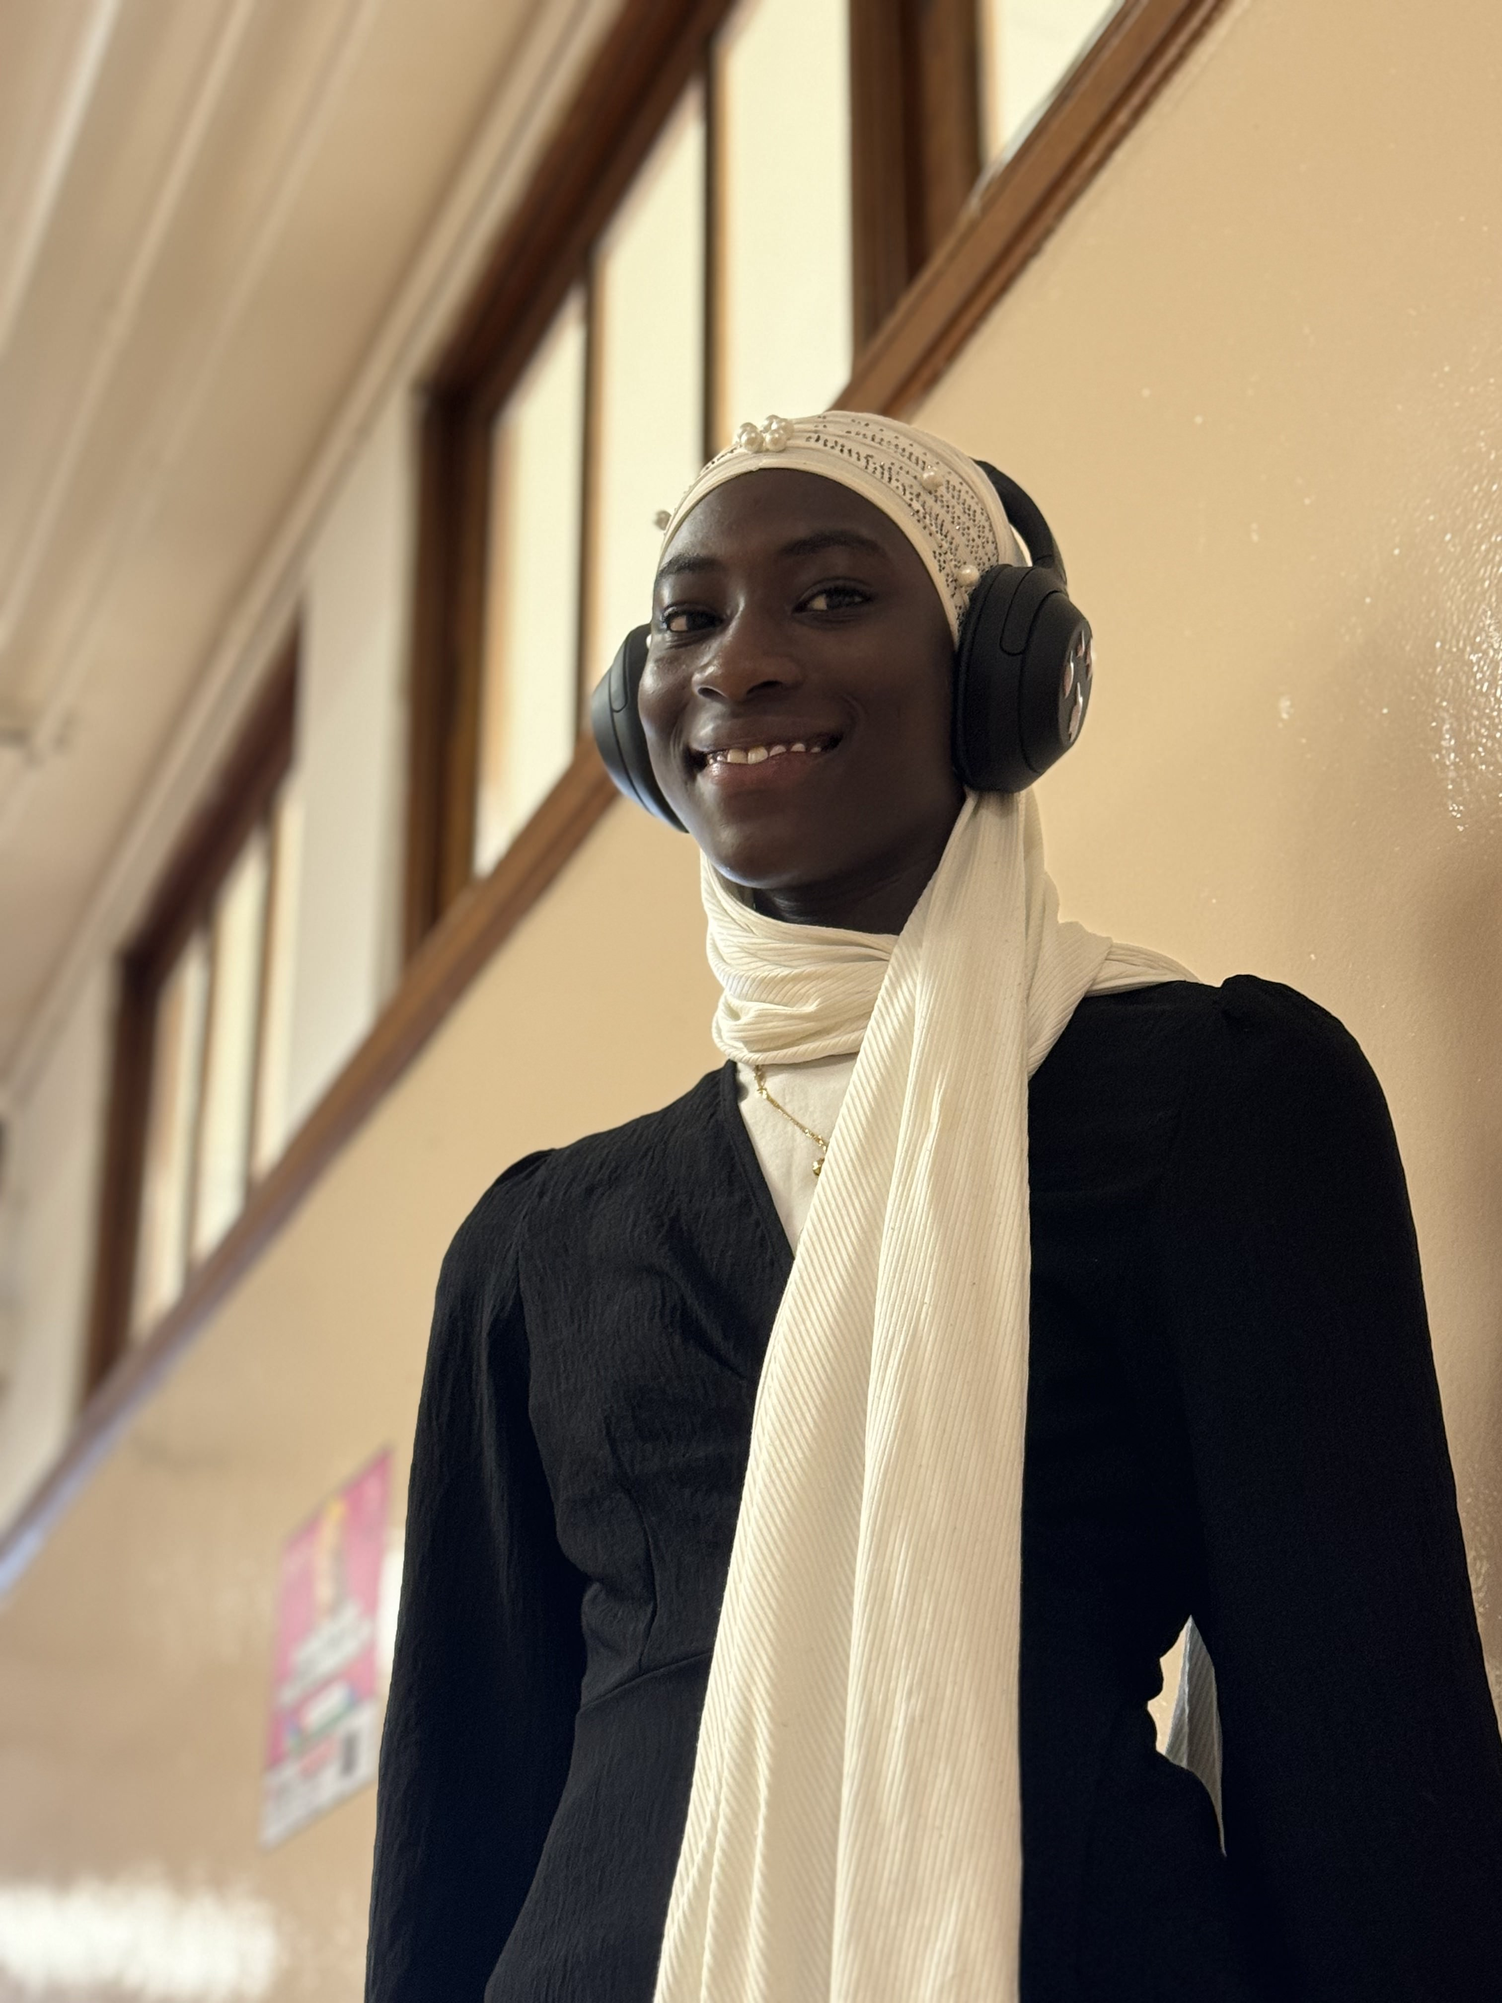
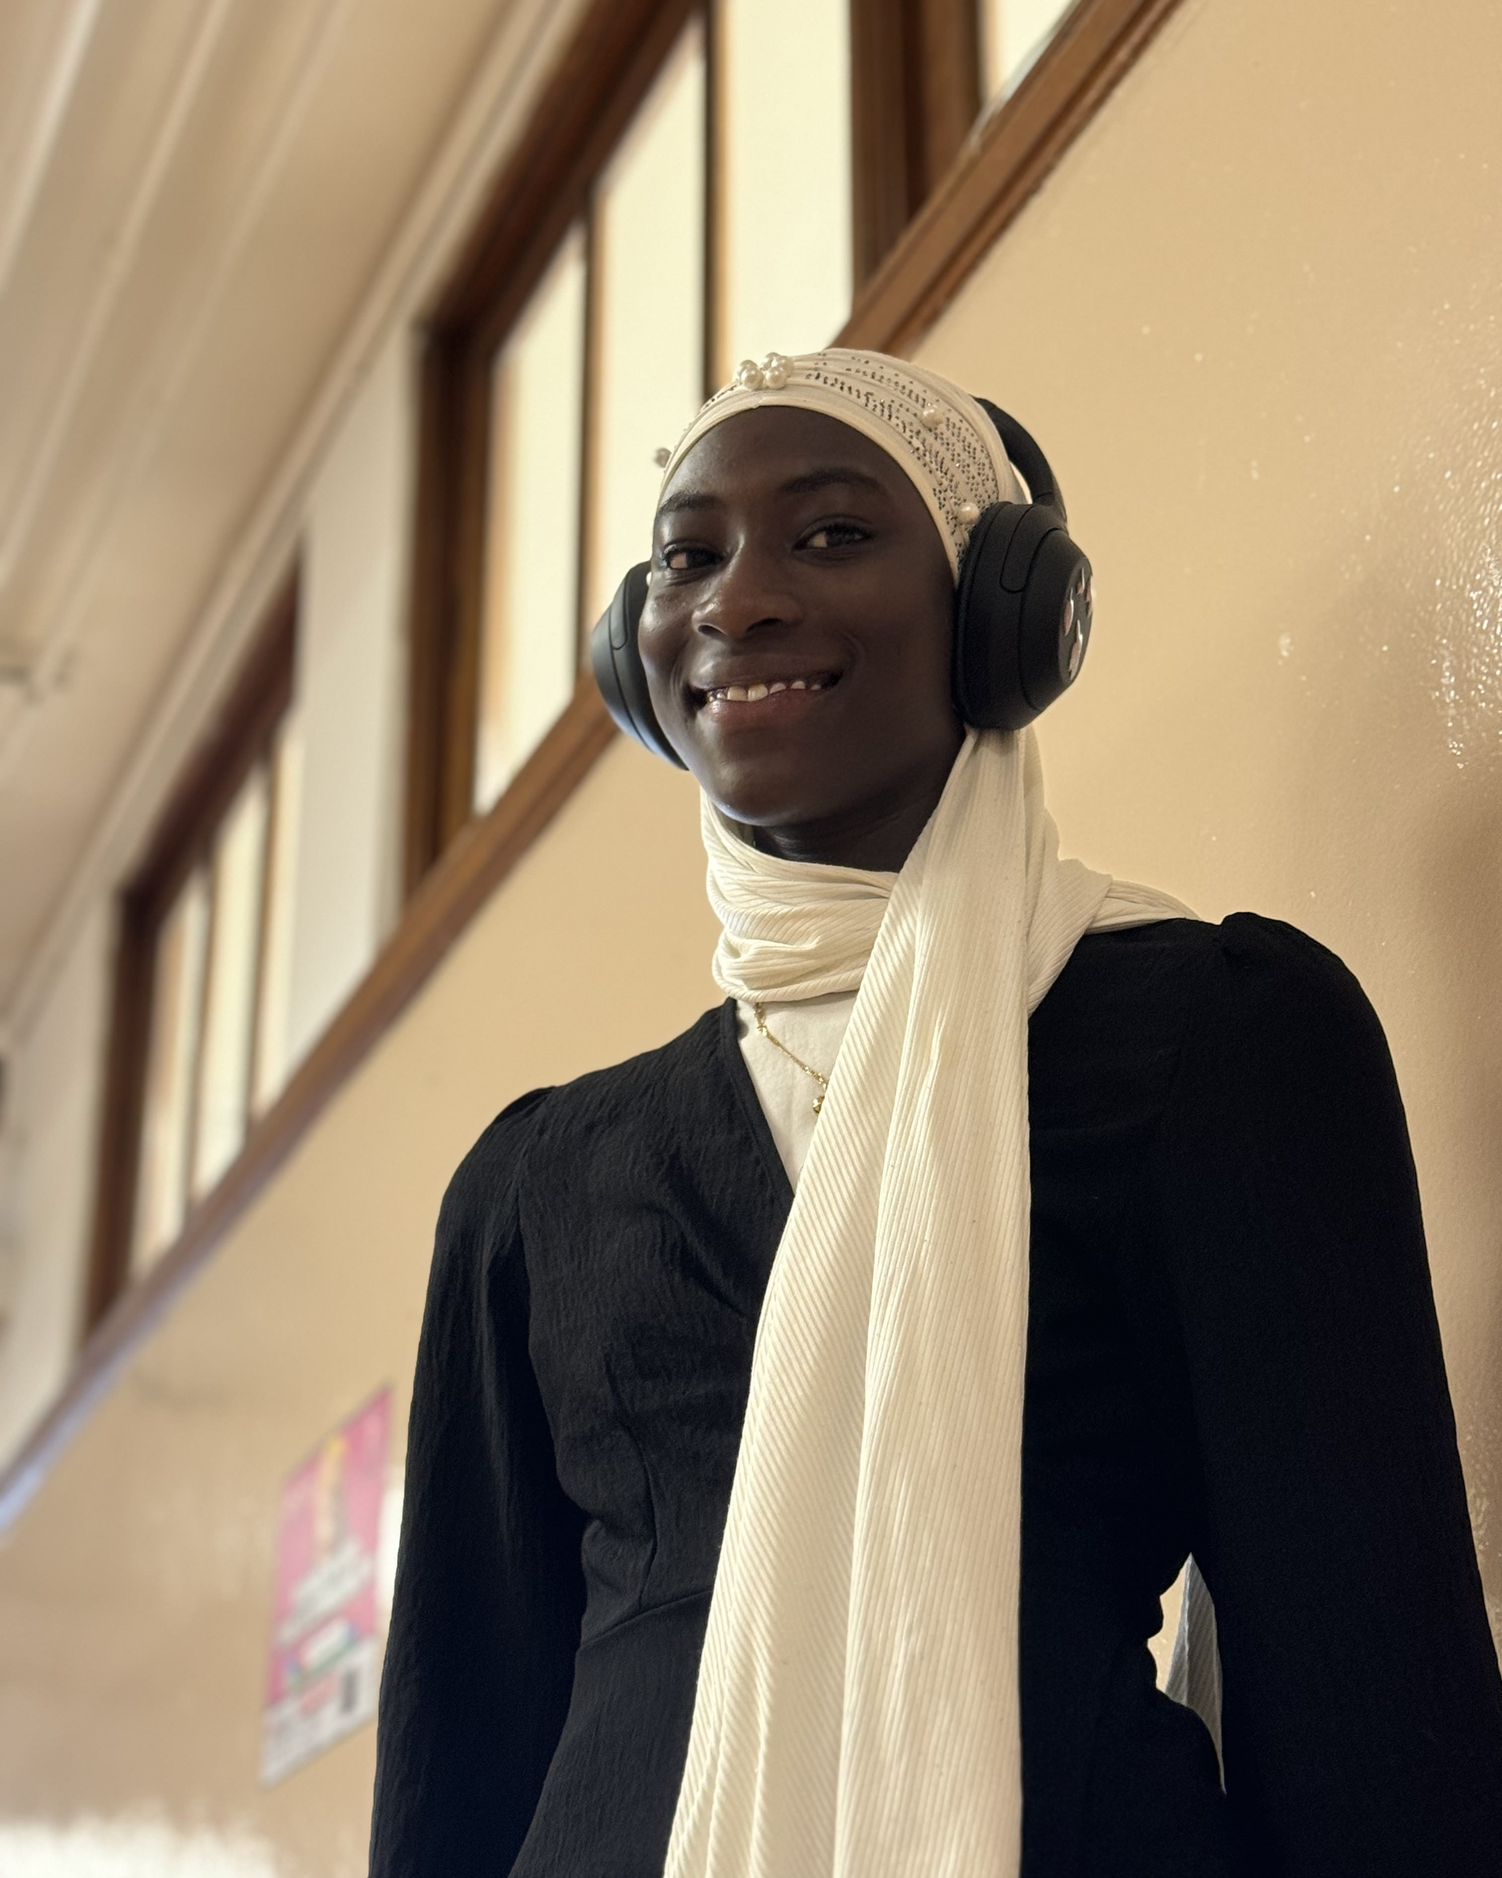
tiff

diff --git a/student3.html b/student3.html
@@ -1,0 +1,147 @@
+      <!DOCTYPE html>
+      <html>
+
+      <head>
+        <meta charset="utf-8">
+        <meta name="viewport" content="width=device-width">
+        <title>Highlights - Tiffany O'Reilly </title>
+        <link rel="preconnect" href="https://fonts.googleapis.com">
+        <link rel="preconnect" href="https://fonts.gstatic.com" crossorigin>
+        <link href="https://fonts.googleapis.com/css2?family=Bebas+Neue&family=Oswald:wght@200..700&display=swap" rel="stylesheet">
+        <link href="student1.css" rel="stylesheet" type="text/css"/>
+        <!-- ICON LIBRARY -->
+        <link rel="stylesheet" href="https://cdnjs.cloudflare.com/ajax/libs/font-awesome/6.0.0-beta3/css/all.min.css" integrity="sha512-Fo3rlrZj/k7ujTnHg4CGR2D7kSs0v4LLanw2qksYuRlEzO+tcaEPQogQ0KaoGN26/zrn20ImR1DfuLWnOo7aBA==" crossorigin="anonymous" referrerpolicy="no-referrer" />
+
+
+        <style>
+          .pAndi h3{
+            margin-left: 40px;
+          }
+        </style>
+      </head>
+
+      <body style ="margin:0px !important; background-color: #727ea1;">
+        <script src="script.js"></script>
+
+
+        <!-- MENU POPOUT -->
+        <label> 
+          <input type = "checkbox">
+        <!-- Make menu symbol -->
+          <div class = "toggle">
+            <span class = "t-line common"></span>
+            <span class = "m-line common"></span>
+            <span class = "b-line common"></span>
+          </div>
+          <div class = "menu">
+            <h1 id = "menuTitle">MENU</h1>
+            <br>
+            <ul>
+              <li><a href = "index.html"><i class = "fas fa-home"></i> Home </a></li>
+              <li><a href = "ourStudents.html"><i class = "fas fa-users"></i> Our Students</a></li>
+              <li><a href = "ourTeam.html"><i class = "fas fa-handshake"></i> Our Team</a></li>
+              <li><a href = "contact.html"><i class = "fas fa-envelope"></i> Contact</a></li>
+              <li><a href = "temporary.html"><i class = "fas fa-headphones"></i>  Media </a></li>
+              <li><a href = "https://www.baysidehighschool.org/"><i class = "fas fa-school"></i> Back To Bayside</a></li>
+
+            </ul>
+          </div>
+        </label>
+
+        <center><img style = "width: 90px; height:auto;" src = "website_image/logo_cropped.png"><h1 style = "margin-top:15px; font-family: 'Bebas Neue', sans-serif;font-weight: 400;font-style: normal;text-align: center;letter-spacing: 4px;font-size: 200%;"> Tiffany O'Reilly </h1> </center>
+        <br>
+        <br>
+        <div class = "flex flexrow" id = "content">
+          <div class = "flex flexcol" style = "justify-content:flex-start; margin-left:20px;padding-left:0;">
+          <img style = "width: 400px; height:auto; margin-top:10px" src = "students_image/student3_2.jpg">
+            <br>
+          <p>Credits:
+            <br>
+            <br>
+          Writer:&emsp;&emsp; &emsp;&thinsp;&nbsp&nbsp;&nbsp; Dustin Wang
+            <br>
+          Photography:&emsp;&thinsp; Mathew Xochitecatl
+</p>
+          </div>
+          <div class = "student_info flex flexcol">
+            <br>
+            <h5 style = "width:90%;font-family: 'Montserrat';font-size: 22px;">"A Captain Who Loves to Win … and A Nurse?"</h5>
+
+            
+    <div class = "pAndi">
+        <div id = "p">
+            <h3>A Community in Sports</h3>
+          <br>
+            <p>During Tiffany’s freshman year at Bayside, New York City schools were shut down due to the Covid-19 pandemic and students were taking classes remotely, unable to truly connect with their peers. In her sophomore year, schools finally reopened and students were able to walk through Bayside’s halls for the first time. At first, like most others, Tiffany felt lost and disconnected; she did not know anyone at the school because of the pandemic. However, once she joined soccer, Tiffany was able to build a community and develop friendships that would help her overcome the separation she had experienced in her freshman year. She recounts, “Sports just helped me know people when I came around the halls the first day, and they brought me around… without that I would be lost.” 
+   </p>
+        </div>   
+       <img style = "width:225px; height:auto;margin-top: 50px; margin-right: 50px;" src = "students_image/student3_1.jpg">
+    </div> 
+            
+
+            <br>
+          <div class = "pAndi" style = "width:85%;">
+              <img style = "width:250px; height:auto;" src = "students_image/student3_4.jpeg">
+            <div id = "p">
+              <h3>A Captain’s Role</h3>
+              <p>The sports community at Bayside has clearly had a large impact on Tiffany. In fact, Tiffany plays a large role in shaping her teams’ morale, focus, and overall success through her contagious energy and continuous enthusiasm. As captain, one of the concepts that Tiffany advocates for is teamwork. Believing teamwork to be the most important factor in any team, Tiffany tries to include all her players and aid them in reaching their full potential. She believes that to be a good captain, one must avoid being selfish and instead, demonstrate commitment and maintain a supportive environment.</p>
+            </div>
+          </div>
+
+            <br><br>
+
+            <div class = "pAndi" style = "width:100%;">
+              <div id = "p">
+                <h3>A Drive to Win</h3>
+                <br>
+                <p>To be captain of three sports teams and play all year long is not an easy task, yet Tiffany is able to do so with ease. She is a highly motivated individual who seriously loves to win. Not only is she driven by success, but Tiffany is also extremely competitive: she loves the feeling of winning and enjoys the chase for more, allowing her to push her teams to new heights. In her first two years of playing basketball at Bayside, the team did not make it to playoffs and had an unsuccessful season with numerous defeats. However, this year, “We made a huge jump from being at the complete bottom to doing very good for ourselves;” the girls’ basketball team was able to rise above their competition to become division champions, with Tiffany as their captain.Filled with an ambitious fire, Tiffany hopes that this year, she can take her flag football team to the playoffs. With the new talent on the roster, Tiffany is excited for this season and wishes to take the team far. She states,”I think we can become division champs and we can go far in the playoffs if we keep going at the rate we are right now. We are doing amazing.” 
+                 </p>
+              </div>
+            </div>
+    <br><br>
+
+            <div class = "pAndi" style = "width:85%;">
+               <img style = "width:225px; height:auto; margin-bottom: 25px;" src = "students_image/student3_3.jpg">
+              <div id = "p">
+                <h3>A Career in Nursing</h3>
+                     <br>
+                 <p>Aside from sports, Tiffany is planning on pursuing a career in nursing.  She expresses, “I’ve always enjoyed helping others. I’ve always been surrounded by people who care for each other and I have always been that type of person who’s always caring for others.”Clearly, Tiffany has a passion for providing support not just for her teammates, but for people in general and her time spent at Bayside High School has given her valuable experience that may prove useful in her future career. She will use her expertise in teamwork and working with a variety of people in her future as a nurse.  She believes that the collaboration needed in sports will most definitely be required in her desired career: “In nursing, you have to work with a group of people to heal people and make sure [they’re] okay. And I have to work with doctors and I feel like that will just be a good asset… I’ve always been working with others due to sports.”<br>Tiffany O’Reilly is the captain of the girls’ soccer, basketball, and flag football teams, and it is clear that she is an integral part of Bayside’s sports community.  When asked what she enjoys about our school, she comments, “I think being part of the school and being in a school, you have to be part of things… like part of a team or part of a club. It’s just where you meet people ... I know a lot of people at this school just because I am part of soccer. Without that, I feel like you wouldn’t even know me.”</p>
+              </div>
+            </div>
+          
+
+<br><br>
+            
+            <button style = "color:white;" id = "explore"> <a href = "ourStudents.html">Explore More</a> </button>
+            <br>
+          </div>
+        </div>
+        <br> 
+        <br>
+        <br>
+        <!-- LIBRARY FOR SOCIAL ICONS  -->
+        <script type="module" src="https://unpkg.com/ionicons@7.1.0/dist/ionicons/ionicons.esm.js"></script>
+        <script nomodule src="https://unpkg.com/ionicons@7.1.0/dist/ionicons/ionicons.js"></script>
+        <!-- END OF BODY -->
+
+        <footer id="footer" class="flex flexrow">
+
+           <a id = "insta" style = "text-decoration: none;" href = "https://www.instagram.com/baysidehighlights?utm_source=ig_web_button_share_sheet&igsh=ZDNlZDc0MzIxNw==" target = "_blank"> 
+             <ion-icon name="logo-instagram"></ion-icon> 
+           </a>
+
+              <button> Highlight a Student! </button>
+
+            <a id="email"style = "text-decoration: none;"href = "mailto:highlights@baysidehighschool.org" target = "_blank"> 
+              <ion-icon name="mail-unread-outline"></ion-icon> 
+            </a>
+
+
+        </footer>
+
+      </body>
+
+
+
+
+      </html>

diff --git a/ourStudents.html b/ourStudents.html
@@ -58,11 +58,21 @@
   </div>
   </center>
 
-  
   <div id = "full">
     <div class = "line row1">
       <div class = "picAndp">
-        <a href = "student1.html"><img style = "margin-right:7px;border-radius:50%; width:170px" src="students_image/cover_img.jpg"></a>
+        <a href = "student3.html"><img style = "margin-right:7px;border-radius:50%; width:170px;height:100%;" class = "img_fill" src="students_image/student3_cover.jpg"></a>
+        <a style = "text-decoration:none; color:#252525;"  href ="student3.html"><p>Tiffany O'Reilly<br>A Captain who Loves to Win … and A Nurse?<br>Learn all about Tiffany and her passions.
+</p></a>
+      </div> 
+    </div>
+
+
+    </div>
+  <div id = "full">
+    <div class = "line row1">
+      <div class = "picAndp">
+        <a href = "student1.html"><img style = "margin-right:7px;border-radius:50%; width:170px;height:100%;" src="students_image/cover_img.jpg"></a>
         <a style = "text-decoration:none; color:#252525;"  href ="student1.html"><p>Mame Diarra Khoule <br>"When given the opportunity to come to America and leave her whole life behind, she took it without hesitation." <br> Discover Mame's inspiring story.</p></a>
       </div> 
     </div>
@@ -70,7 +80,7 @@
     <div id = "full">
     <div class = "line row1">
       <div class = "picAndp">
-        <a href = "student2.html"><img style = "margin-right:7px;border-radius:50%; width:170px" src="students_image/student2_cover.png"></a>
+        <a href = "student2.html"><img style = "margin-right:7px;border-radius:50%; width:170px;height:100%;" src="students_image/student2_cover.png"></a>
         <a style = "text-decoration:none; color:#252525;"  href ="student2.html"><p>Alina Ashraf<br>“It is always better to try… even if you are doubtful because what is worse than trying and not getting accepted is not trying at all."<br>Read about Alina's journey.</p></a>
       </div> 
     </div>

diff --git a/student2.html b/student2.html
@@ -59,8 +59,8 @@
             <br>
             <h5 style = "width:90%;font-family: 'Montserrat';font-size: 22px;">"It is always better to try… even if you are doubtful because what is worse than trying and not getting accepted is not trying at all."</h5>
           <br><br>
-            <div class = "pAndi">
-              
+            
+            <div class = "pAndi">  
             <p>Children are led to believe that anything is possible; that possibility is dictated only by the extent of one’s determination and hard work. It is fitting then, that children aspire to pursue careers requiring years of discipline, with most wanting to become doctors, firefighters, or astronauts. Unfortunately, many of these dreams never come to fruition as the work required to achieve them proves to be an insurmountable obstacle. For sixteen-year-old Alina Ashraf, however, the possibility of becoming an astronaut doctor is not completely off the table. <br><br> At face value, one might assume Alina Ashraf to be like any other hard-working Junior at Bayside High School: A rigorous schedule filled with AP coursework paired with an extensive list of extracurricular activities defines her daily routine. Alina, however, is not like her fellow peers; she has done something that no other Bayside High School student has accomplished. Thanks to her participation in a city-wide space prize contest, Alina has experienced weightlessness. </p>
 
               <img style = "width:175px; height:auto; margin-right:40px;" src = "students_image/student2_1.jpg">
@@ -96,7 +96,8 @@
             </p> </div> 
             <br><br>
             
-            <!-- <button> <a href = "ourStudents.html">Explore More</a> </button> -->
+            <button style = "color:white;" id = "explore"> <a href = "ourStudents.html">Explore More</a> </button>
+            <br>
           </div>
         </div>
         <br> 

diff --git a/student1.html b/student1.html
@@ -81,7 +81,7 @@
   <script type="module" src="https://unpkg.com/ionicons@7.1.0/dist/ionicons/ionicons.esm.js"></script>
   <script nomodule src="https://unpkg.com/ionicons@7.1.0/dist/ionicons/ionicons.js"></script>
   <!-- END OF BODY -->
->>>>>>> c8b5873ef144bc944d16bc6ddf3d97fed05d370f
+<!-- >>>>>>> c8b5873ef144bc944d16bc6ddf3d97fed05d370f
 
         <center><img style = "width: 90px; hieght:auto;" src = "website_image/logo_cropped.png"><h1 style = "margin-top:15px; font-family: 'Bebas Neue', sans-serif;font-weight: 400;font-style: normal;text-align: center;letter-spacing: 4px;font-size: 200%;">Mame Diarra Khoule</h1> </center>
         <br>
@@ -117,7 +117,7 @@
         </div>
         <br> 
         <br>
-        <br>
+        <br> -->
         <!-- LIBRARY FOR SOCIAL ICONS  -->
         <script type="module" src="https://unpkg.com/ionicons@7.1.0/dist/ionicons/ionicons.esm.js"></script>
         <script nomodule src="https://unpkg.com/ionicons@7.1.0/dist/ionicons/ionicons.js"></script>

diff --git a/index.html b/index.html
@@ -82,13 +82,13 @@
         <div class="flex">
           <!-- https://jsfiddle.net/3S37r/1/ -- tutorial used for cube turn  -->
           <div id = "whole">
-            <a href = "student2.html"> 
+            <a href = "student3.html"> 
               <div class = "cube c1">
                 <div class = "face front c1_f1">
-                  <img  class="img_fill" src="students_image/student2_3.jpg">
+                  <img  class="img_fill" src="students_image/student3_cover.jpg">
                 </div>
                 <div class = "face side c1_f2">
-                  <p class="desc">“It is always better to try… even if you are doubtful because what is worse than trying and not getting accepted is not trying at all."</p>
+                  <p class="desc">A Captain who Loves to Win … and A Nurse?<br>Learn all about Tiffany and her passions.</p>
                 </div>
               </div>
             </a>

diff --git a/student1.css b/student1.css
@@ -414,3 +414,40 @@ ion-icon{
   padding-right: 10px;
   padding-left:10px;
  } 
+#explore{
+  border-radius: 100px;
+  font-family: "Bebas Neue", sans-serif;
+  background-color: #F0E29B;
+  border: none;
+  padding: 1% 2% 1% 2%;
+  /* text property */
+  color:white;
+  text-shadow: 1px 1px black;
+  font-size: 150%;
+  text-align: center;
+  /* positioning */
+  margin-left: 1%;
+  margin-right: 1%;
+
+}
+
+/* dynamics*/
+
+#explore:hover{
+  /* transition time */
+  transition: 0.5s;
+  transition-timing-function: ease-in-out;
+  /*  */
+  cursor: pointer;
+  font-size: 170%;
+  box-shadow: 0px 0px 10px #F8F6F0;
+
+}
+
+#explore:not(:hover){
+  /* transition time */
+  transition: 0.5s;
+  transition-timing-function: ease-in-out;
+  /*  */
+}
+/*  */

diff --git a/ourStudents.css b/ourStudents.css
@@ -378,3 +378,10 @@ ion-icon{
 }
 
 /* end of media  */
+.img_fill{
+  overflow: hidden;
+  min-height: 100%;
+  min-width: 100%;
+  margin: auto !important;
+  object-fit: cover;
+}

diff --git a/ourTeam.css b/ourTeam.css
@@ -199,7 +199,6 @@ input:checked ~ .menu{
 #img{
     opacity:1;
     z-index: 1;
-    height:auto;
     height: 300px;
     width: 300px;
     object-position: center 25%;

diff --git a/index.css b/index.css
@@ -288,6 +288,7 @@ html {
 
 .img_fill{
   overflow: hidden;
+  object-position: center 15%;
   min-height: 100%;
   min-width: 100%;
   margin: auto !important;
